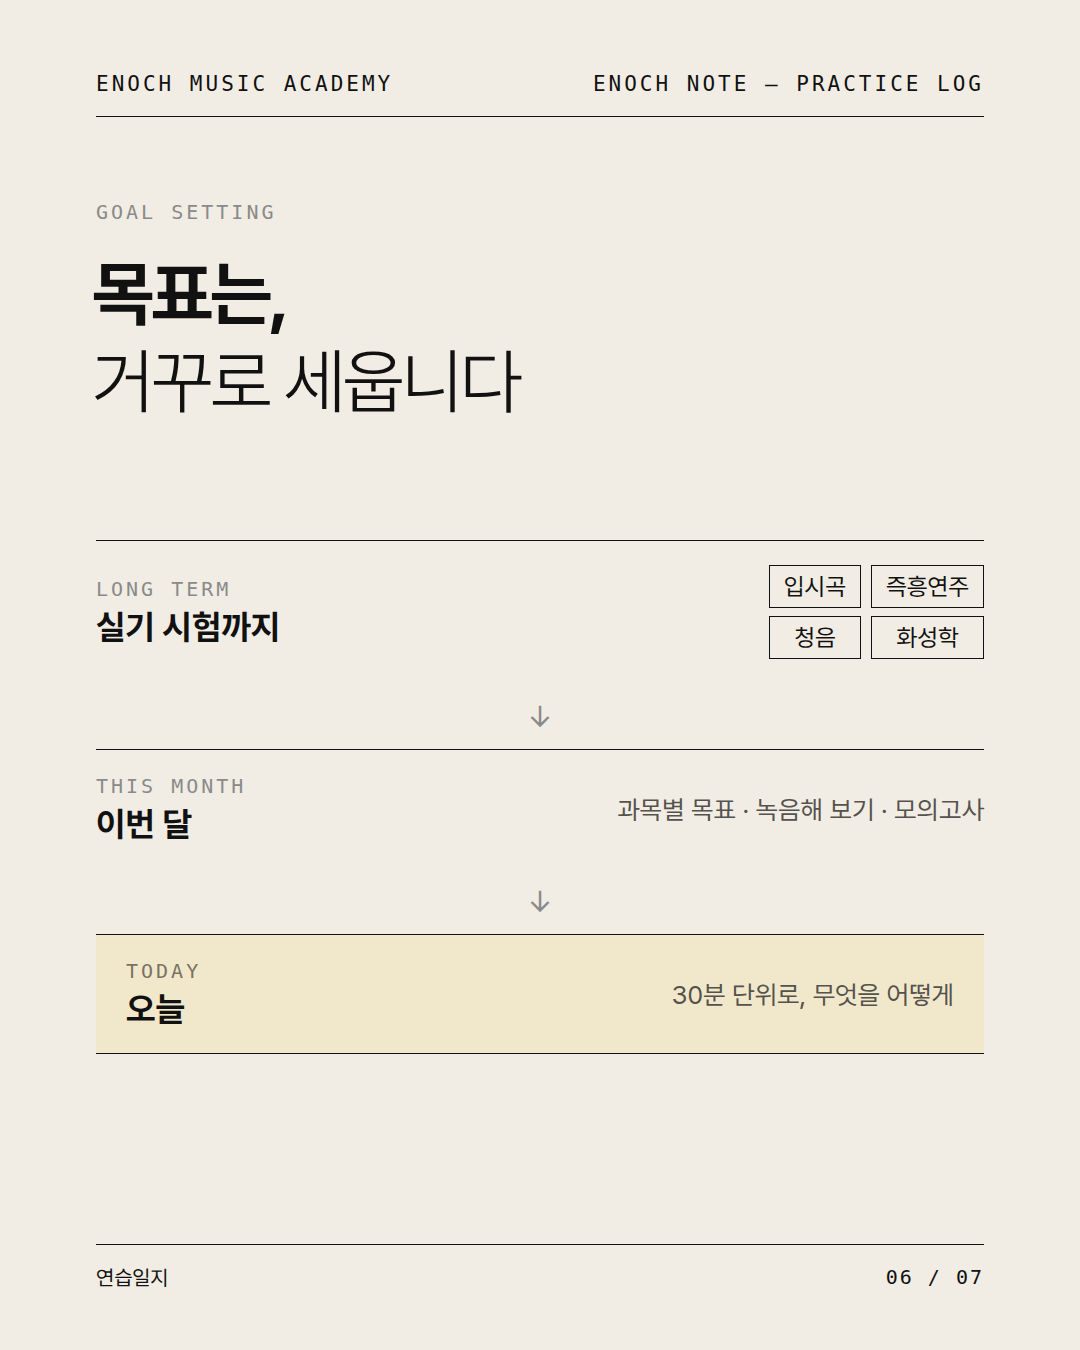
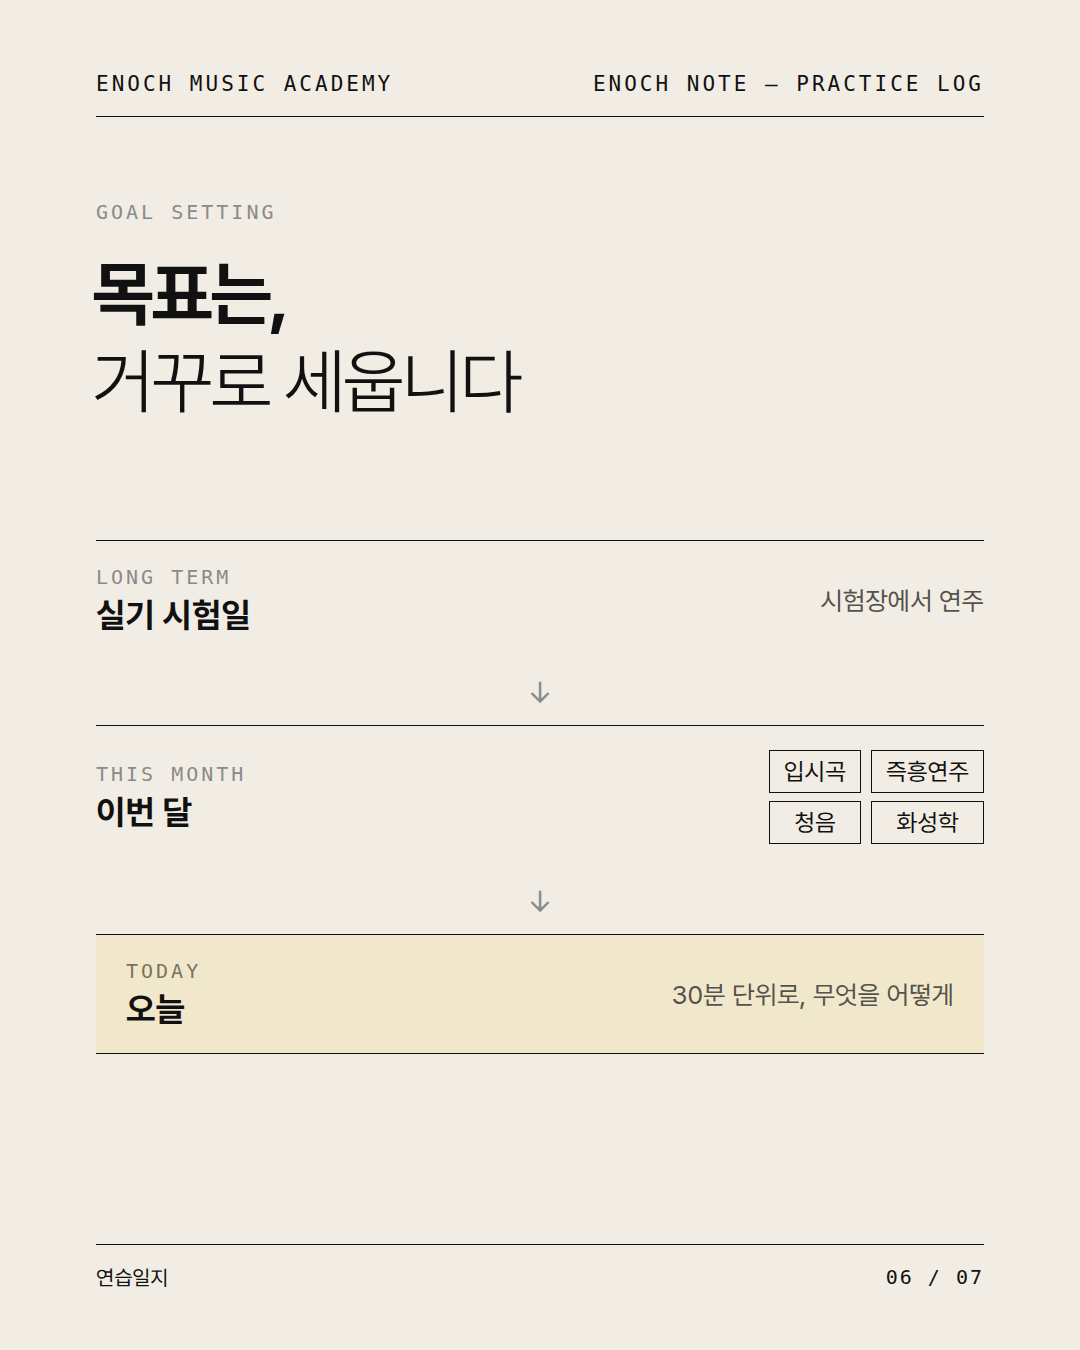
연습일지: 실기 시험일=시험장에서 연주, 이번 달=입시곡·즉흥연주·청음·화성학
Claude-Session: https://claude.ai/code/session_01HGbZvgMeYrbU7mY8bwfjyb

diff --git a/output/노트_연습일지/deck.html b/output/노트_연습일지/deck.html
@@ -63,9 +63,9 @@
 <div class="k a" style="left:96px;top:200px">Goal Setting</div>
 <div class="h a" style="left:92px;top:250px">목표는,<br><em>거꾸로 세웁니다</em></div>
 <div class="a" style="left:96px;right:96px;top:540px;display:flex;flex-direction:column;gap:18px">
-  <div style="border-top:1.5px solid #111;padding:24px 0;display:flex;justify-content:space-between;align-items:center"><div><div class="k">Long Term</div><div style="font-size:34px;font-weight:700;margin-top:6px">실기 시험까지</div></div><div style="display:grid;grid-template-columns:auto auto;gap:8px 10px"><span style="font-size:24px;padding:6px 14px;border:1.5px solid #111;text-align:center">입시곡</span><span style="font-size:24px;padding:6px 14px;border:1.5px solid #111;text-align:center">즉흥연주</span><span style="font-size:24px;padding:6px 14px;border:1.5px solid #111;text-align:center">청음</span><span style="font-size:24px;padding:6px 14px;border:1.5px solid #111;text-align:center">화성학</span></div></div>
+  <div style="border-top:1.5px solid #111;padding:24px 0;display:flex;justify-content:space-between;align-items:center"><div><div class="k">Long Term</div><div style="font-size:34px;font-weight:700;margin-top:6px">실기 시험일</div></div><div style="font-size:26px;color:#55524D">시험장에서 연주</div></div>
   <div style="text-align:center;font-size:30px;color:#8A8A8A;line-height:1">↓</div>
-  <div style="border-top:1.5px solid #111;padding:24px 0;display:flex;justify-content:space-between;align-items:center"><div><div class="k">This Month</div><div style="font-size:34px;font-weight:700;margin-top:6px">이번 달</div></div><div style="font-size:26px;color:#55524D">과목별 목표 · 녹음해 보기 · 모의고사</div></div>
+  <div style="border-top:1.5px solid #111;padding:24px 0;display:flex;justify-content:space-between;align-items:center"><div><div class="k">This Month</div><div style="font-size:34px;font-weight:700;margin-top:6px">이번 달</div></div><div style="display:grid;grid-template-columns:auto auto;gap:8px 10px"><span style="font-size:24px;padding:6px 14px;border:1.5px solid #111;text-align:center">입시곡</span><span style="font-size:24px;padding:6px 14px;border:1.5px solid #111;text-align:center">즉흥연주</span><span style="font-size:24px;padding:6px 14px;border:1.5px solid #111;text-align:center">청음</span><span style="font-size:24px;padding:6px 14px;border:1.5px solid #111;text-align:center">화성학</span></div></div>
   <div style="text-align:center;font-size:30px;color:#8A8A8A;line-height:1">↓</div>
   <div style="border-top:1.5px solid #111;border-bottom:1.5px solid #111;background:var(--bu);padding:24px 30px;display:flex;justify-content:space-between;align-items:center"><div><div class="k" style="color:#7A7262">Today</div><div style="font-size:34px;font-weight:700;margin-top:6px">오늘</div></div><div style="font-size:26px;color:#55524D">30분 단위로, 무엇을 어떻게</div></div>
 </div>

diff --git a/output/노트_연습일지/gen.py b/output/노트_연습일지/gen.py
@@ -92,9 +92,9 @@ S.append(f"""<section class="s" id="c6">{HD()}
 <div class="k a" style="left:96px;top:200px">Goal Setting</div>
 <div class="h a" style="left:92px;top:250px">목표는,<br><em>거꾸로 세웁니다</em></div>
 <div class="a" style="left:96px;right:96px;top:540px;display:flex;flex-direction:column;gap:18px">
-  <div style="border-top:1.5px solid #111;padding:24px 0;display:flex;justify-content:space-between;align-items:center"><div><div class="k">Long Term</div><div style="font-size:34px;font-weight:700;margin-top:6px">실기 시험까지</div></div><div style="display:grid;grid-template-columns:auto auto;gap:8px 10px"><span style="font-size:24px;padding:6px 14px;border:1.5px solid #111;text-align:center">입시곡</span><span style="font-size:24px;padding:6px 14px;border:1.5px solid #111;text-align:center">즉흥연주</span><span style="font-size:24px;padding:6px 14px;border:1.5px solid #111;text-align:center">청음</span><span style="font-size:24px;padding:6px 14px;border:1.5px solid #111;text-align:center">화성학</span></div></div>
+  <div style="border-top:1.5px solid #111;padding:24px 0;display:flex;justify-content:space-between;align-items:center"><div><div class="k">Long Term</div><div style="font-size:34px;font-weight:700;margin-top:6px">실기 시험일</div></div><div style="font-size:26px;color:#55524D">시험장에서 연주</div></div>
   <div style="text-align:center;font-size:30px;color:#8A8A8A;line-height:1">↓</div>
-  <div style="border-top:1.5px solid #111;padding:24px 0;display:flex;justify-content:space-between;align-items:center"><div><div class="k">This Month</div><div style="font-size:34px;font-weight:700;margin-top:6px">이번 달</div></div><div style="font-size:26px;color:#55524D">과목별 목표 · 녹음해 보기 · 모의고사</div></div>
+  <div style="border-top:1.5px solid #111;padding:24px 0;display:flex;justify-content:space-between;align-items:center"><div><div class="k">This Month</div><div style="font-size:34px;font-weight:700;margin-top:6px">이번 달</div></div><div style="display:grid;grid-template-columns:auto auto;gap:8px 10px"><span style="font-size:24px;padding:6px 14px;border:1.5px solid #111;text-align:center">입시곡</span><span style="font-size:24px;padding:6px 14px;border:1.5px solid #111;text-align:center">즉흥연주</span><span style="font-size:24px;padding:6px 14px;border:1.5px solid #111;text-align:center">청음</span><span style="font-size:24px;padding:6px 14px;border:1.5px solid #111;text-align:center">화성학</span></div></div>
   <div style="text-align:center;font-size:30px;color:#8A8A8A;line-height:1">↓</div>
   <div style="border-top:1.5px solid #111;border-bottom:1.5px solid #111;background:var(--bu);padding:24px 30px;display:flex;justify-content:space-between;align-items:center"><div><div class="k" style="color:#7A7262">Today</div><div style="font-size:34px;font-weight:700;margin-top:6px">오늘</div></div><div style="font-size:26px;color:#55524D">30분 단위로, 무엇을 어떻게</div></div>
 </div>

diff --git a/output/노트_연습일지/caption.md b/output/노트_연습일지/caption.md
@@ -22,7 +22,7 @@ ENOCH 입시 과정은 모두 1:1. 시험장에서도 연습한 만큼 연주할
 3. 연습일지 양식: 연습 전 목표 1줄, 연습 후 3줄
 4. 그냥 쓴 일지("오늘 3시간 연습함. 잘 안 됨.")와 잘 쓴 일지(구간·템포·안 된 곳·내일 할 것) 비교
 5. 일주일 동안 같은 8마디의 템포가 70에서 85로 오르는 선 그래프
-6. 목표를 거꾸로 세우기: 실기 시험까지(입시곡·즉흥연주·청음·화성학) → 이번 달 → 오늘
+6. 목표를 거꾸로 세우기: 실기 시험일(시험장에서 연주) → 이번 달(입시곡·즉흥연주·청음·화성학) → 오늘
 7. 마무리: "어제의 연습이, 오늘의 기준이 됩니다." 모의고사 안내와 주소·전화
 
 ## 하이라이트 분류
